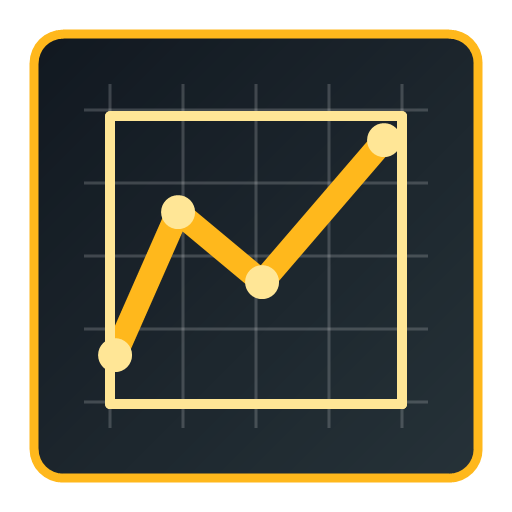
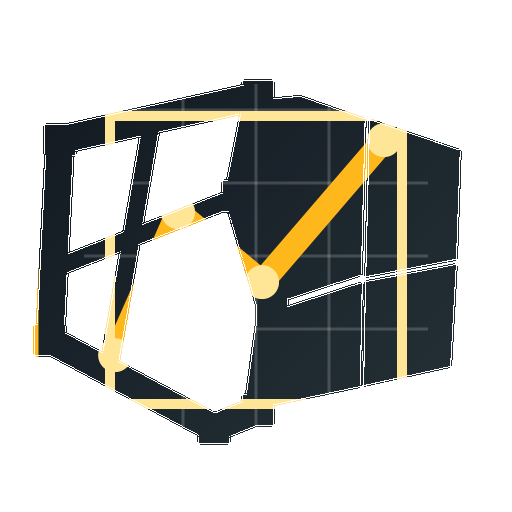
Release v2.7.7
Make background transparent for all in-set plugin icons (icon_cad, icon_gis, icon_ncz)

diff --git a/CHANGELOG.md b/CHANGELOG.md
@@ -1,5 +1,9 @@
 # Changelog
 
+## [2.7.7] - 2026-08-06
+
+- Made background transparent for all in-set plugin icons (`icon_cad.png`, `icon_gis.png`, `icon_ncz.png`) to align with the main transparent `icon.png` artwork.
+
 ## [2.7.6] - 2026-08-06
 
 - Updated plugin icon branding and metadata/about sections:
